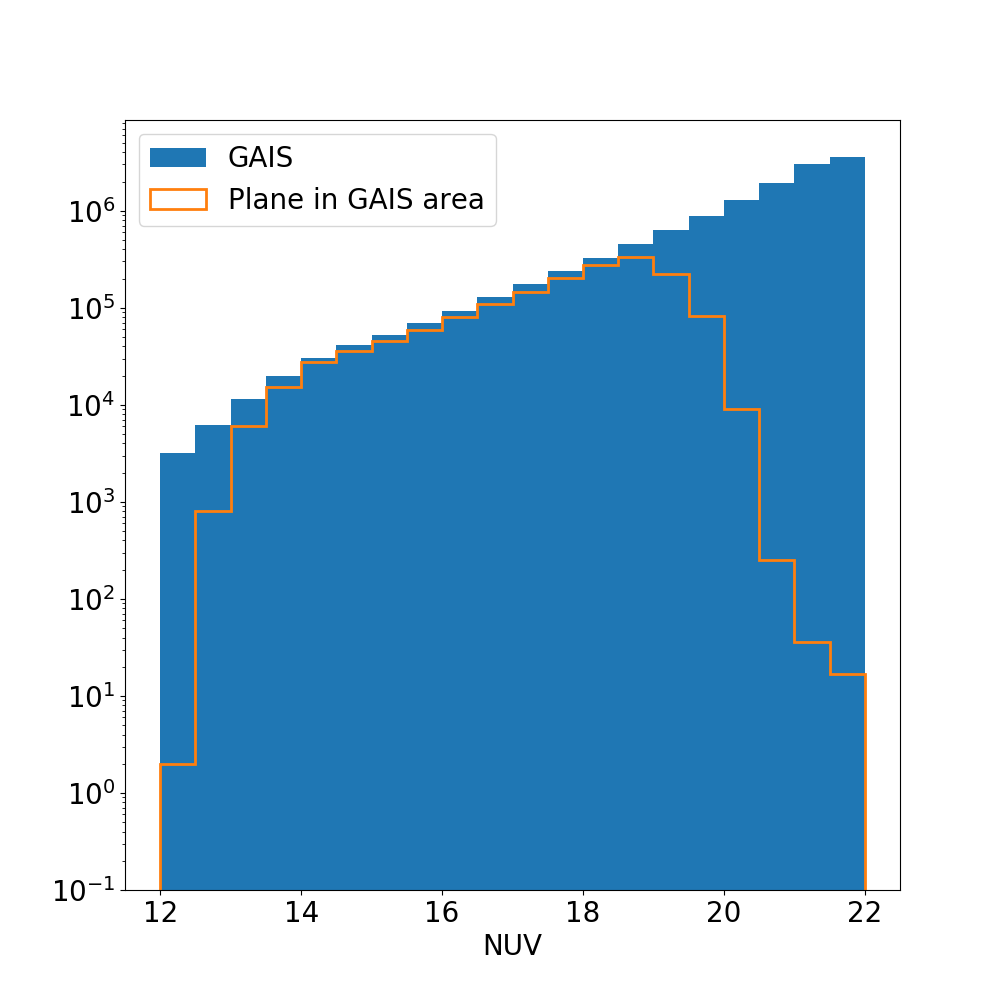
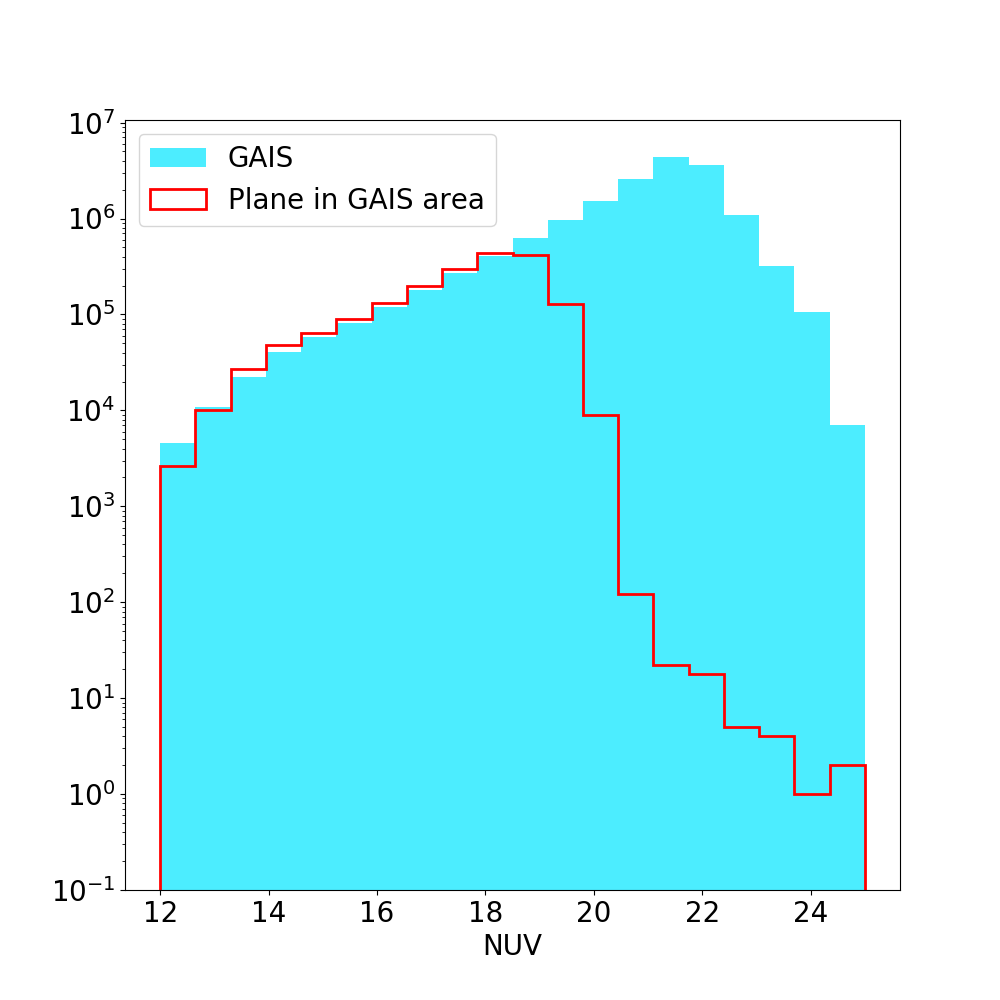
Modified histogram plots

diff --git a/pipeline/planepaperplots.py b/pipeline/planepaperplots.py
@@ -79,14 +79,12 @@ plt.show()
 ############################################################
 # Angular separations for Gaia and PS1
 ############################################################
-cg = fits.open('plane_gaiadr2_dust_09_27_18.fits')[1].data
-plt.hist(cg['angsep']*3600, bins=20),plt.show()
-plt.xlabel('Angular Separation [Plane to Gaia]')
-plt.show()
-
-ps = fits.open('plane_ps1_g10-20_09_26_18.fits')[1].data
-plt.hist(ps['angsep']*3600, bins=20)
-plt.xlabel('Angular Separation [Plane to PS1]')
+cg = fits.open('plane_gaiadr2_dust_10_13_18.fits')[1].data
+ps = fits.open('plane_ps1_g10-20_10_12_18.fits')[1].data
+plt.hist(cg['angsep']*3600, bins=20, alpha=0.7, label='Gaia match', color='#00E6FF')
+plt.hist(ps['angsep']*3600, bins=20, alpha=0.7, label='PS1 match', color='#FF5C5C')
+plt.xlabel('Angular Separation')
+plt.legend(scatterpoints=1)
 plt.show()
 
 
@@ -128,7 +126,7 @@ none = Table.read('plane_innosurveys_11_02_18.txt', format='ascii')
 
 
 
-plt.hist(cat['nuv'], bins=20, range=[12,21], label='Plane')
+plt.hist(cat['nuv'], bins=20, range=[12,21], label='Plane', alpha=0.7, color='#00E6FF')
 plt.hist(cg['nuv'], bins=20, range=[12, 21], histtype='step',linewidth=3, stacked=True, label='Plane+Gaia')
 plt.hist(ps['nuv'], bins=20, range=[12, 21], histtype='step', linewidth=3, stacked=True, label='Plane+PS1')
 plt.hist(gg['nuv_plane'], bins=20, range=[12, 21], histtype='step', linewidth=2, stacked=True, label='Plane+GAIS')
@@ -201,28 +199,6 @@ ax.add_collection(p)
 plt.show()
 
 
-####################################################################
-# NUV - g vs g - i
-####################################################################
-scatter_contour(ps['g_ps']-ps['i_ps'],ps['nuv']-ps['g_ps'],threshold=10000,log_counts=True,histogram2d_args=dict(bins=40),plot_args=dict(color='k',markersize=1, alpha=0.1), contour_args=dict(cmap=cm.gray))
-plt.scatter(pickles['g']-pickles['i'],pickles['nuv']-pickles['g'],color='red', label='SED model', s=30, zorder=10)
-plt.arrow(-1.9, 2, 1.1936-0.6533, 2.9720-1.1936, head_length=0.05, head_width=0.02, color='red', zorder=10)
-plt.xlim((-2, 3))
-plt.ylim((8, -2))
-
-plt.annotate('O', xy=(-1.2, 0), size=20)
-plt.annotate('B', xy=(-1.1, 1), size=20)
-plt.annotate('A', xy=(-0.9, 2.3), size=20)
-plt.annotate('F', xy=(-0.5, 3.5), size=20)
-plt.annotate('G', xy=(1.1, 5), size=20)
-plt.annotate('K', xy=(1.5, 6), size=20)
-
-plt.xlabel('g - i')
-plt.ylabel('NUV - g')
-plt.legend(scatterpoints=1, loc=3)
-plt.show()
-
-
 ############################################################
 # Area
 ############################################################
@@ -238,16 +214,16 @@ ra = np.array(g['ra_cent'], dtype=np.float32)
 dec = np.array(g['dec_cent'], dtype=np.float32)
 gal = SkyCoord(ra*u.deg, dec*u.deg, frame='icrs').galactic
 
-cat = fits.open('starcat_allscans_09-28-18.fits')[1].data
+cat = fits.open('starcat_allscans_10-12-18.fits')[1].data
 catgal = SkyCoord(cat['gl']*u.deg, cat['gb']*u.deg, frame='galactic')
 cid, gid, angsep, ang3d = gal.search_around_sky(catgal, 1*u.degree)
 q = np.unique(cid)
 c2 = cat[q]
 
-gais = fits.open('GALEXPlanenew.fits')[1].data
+gais = fits.open('GAISPlane.fits')[1].data
 
-plt.hist(gais['nuv_mag'], range=[12,22], bins=20, label='GAIS', log=True)
-plt.hist(c2['nuv'], range=[12,22], bins=20, histtype='step', linewidth=2, stacked=True, label='Plane in GAIS area', log=True)
+plt.hist(gais['nuv_mag'], range=[12,25], bins=20, label='GAIS', log=True, alpha=0.7, color='#00E6FF')
+plt.hist(c2['nuv'], range=[12,25], bins=20, histtype='step', linewidth=2, stacked=True, label='Plane in GAIS area', log=True, color='red')
 plt.legend(scatterpoints=1, loc=2)
 plt.xlabel('NUV')
 plt.show()
@@ -257,10 +233,10 @@ plt.show()
 ############################################################
 # How many objects in the plane survey are in none of the others = 483,956
 ############################################################
-cat = fits.open('starcat_allscans_09-19-18.fits')[1].d28a # catalog
-ps = fits.open('plane_ps1_g10-20_09_26_18.fits')[1].data # Pan starrs
-cg = fits.open('plane_gaiadr2_dust_09_27_18.fits')[1].data  # gaia
-gg = fits.open('plane_gais_09-26-18.fits')[1].data # GAIS 
+cat = fits.open('starcat_allscans_10-12-18')[1].data # catalog
+ps = fits.open('plane_ps1_g10-20_10_12_18.fits')[1].data # Pan starrs
+cg = fits.open('plane_gaiadr2_dust_10_13_18.fits')[1].data  # gaia
+gg = fits.open('plane_gais_10_13_18.fits')[1].data # GAIS 
 
 
 catgal = SkyCoord(cat['ALPHA_J2000']*u.deg, cat['DELTA_J2000']*u.deg, frame='icrs')

diff --git a/pipeline/intmaps_sextractor_cluster.py b/pipeline/intmaps_sextractor_cluster.py
@@ -18,13 +18,11 @@ import os
 # To do
 #scans = ['0-10', '108-118', '117-127', '126-136', '135-145', '144-154', '153-163', '162-172', '171-181', '180-190', '189-199', '198-208', '207-217', '216-226', '225-235', '234-244', '243-253', '252-262', '261-271', '270-280', '279-289', '288-298', '297-307', '306-316', '351-1', '315-325', '324-334', '333-343', '342-352', '9-19', '18-28', '27-37', '36-46', '45-55', '63-73', '72-82', '81-91', '90-100', '99-109']
 
-#scans = ['63-73', '216-226']
-scans = ['216-226']
-#scans = ['270-280']
+scans = ['144-154']
 
 skyrange = scans
 
-weight = 1
+weight = 0
 
 # Custom parameters that I use
 #filt = 'mexhat_4.0_9x9'
@@ -103,8 +101,15 @@ for currregion in skyrange:
 
     alldata = hstack([data, coord])
 
+    scatter_contour(alldata['nuv'], alldata['FWHM_IMAGE'], threshold=1000, log_counts=True, histogram2d_args=dict(bins=40), plot_args=dict(color='k', markersize=1, alpha=0.1), contour_args=dict(cmap=cm.gray, zorder=10))
+    plt.xlim(12, 21)
+    plt.xlabel('NUV')
+    plt.ylabel('FWHM [pixels]')
+    plt.title('')
+    plt.savefig('fwhmvsnuv_tests_detect_thresh_6.png')
+
     if weight == 0:
-        ascii.write(alldata, '../../galexscans/starcat_'+currregion+'_03_26_2018.txt', format='ipac')
+        ascii.write(alldata, '../../galexscans/tests_starcat_'+currregion+'_11_08_2018.txt', format='ipac')
 
     if weight == 1:
         ascii.write(alldata, '../../galexscans/starcat_'+currregion+'_weighted_04_18_2018.txt', format='ipac')

diff --git a/pipeline/misc.py b/pipeline/misc.py
@@ -765,16 +765,16 @@ WHERE 1=CONTAINS(
 
 # Remember to rename the 'dist' column too 'angsep'
 from dustmaps.bayestar import BayestarQuery
-cg = fits.open('plane_gaia_pt2_10_12_18.fits')[1].data
+cg = fits.open('plane_gaiadr2_pt1.fits')[1].data
 cg = Table(cg)
 
-cg.remove_columns(('col0', 'col1', 'col2'))
+#cg.remove_columns(('col0', 'col1', 'col2'))
 cg.rename_column('ALPHA_J2000', 'ra_plane')
 cg.rename_column('DELTA_J2000', 'dec_plane')
-cg.rename_column('dec', 'dec_gaia')
-cg.rename_column('ra', 'ra_gaia')
+#cg.rename_column('dec', 'dec_gaia')
+#cg.rename_column('ra', 'ra_gaia')
 
-negpar = np.where((cg['parallax'] > 0.) & (cg['phot_g_mean_mag'] > 0.) & (cg['phot_bp_mean_mag'] > 0.) & (cg['phot_rp_mean_mag'] > 0.) & (cg['expsum'] > 10.))
+negpar = np.where((cg['parallax'] > 0.) & (cg['phot_g_mean_mag'] > 0.) & (cg['phot_bp_mean_mag'] > 0.) & (cg['phot_rp_mean_mag'] > 0.) & (cg['expsum'] > 3.) & (cg['ctsum'] > 1) & (cg['bkgdsum'] > 0) & (cg['angsep'] < 2))
 cg = cg[negpar]
 pc = 1000./cg['parallax']
 distmod = 5. * np.log10(pc) - 5
@@ -787,7 +787,7 @@ cg['dist'] = pc
 cg['distmod'] = distmod
 cg['ebv'] = ebv
 ascii.write(cg, 'plane_gaiadr2_dust_pt2.txt', format='basic')
-addhash('plane_gaiadr2_dust_pt2.txt')
+addhash('plane_gaiadr2_dust_pt1.txt')
 
 
 # Pickles pysynphot files
